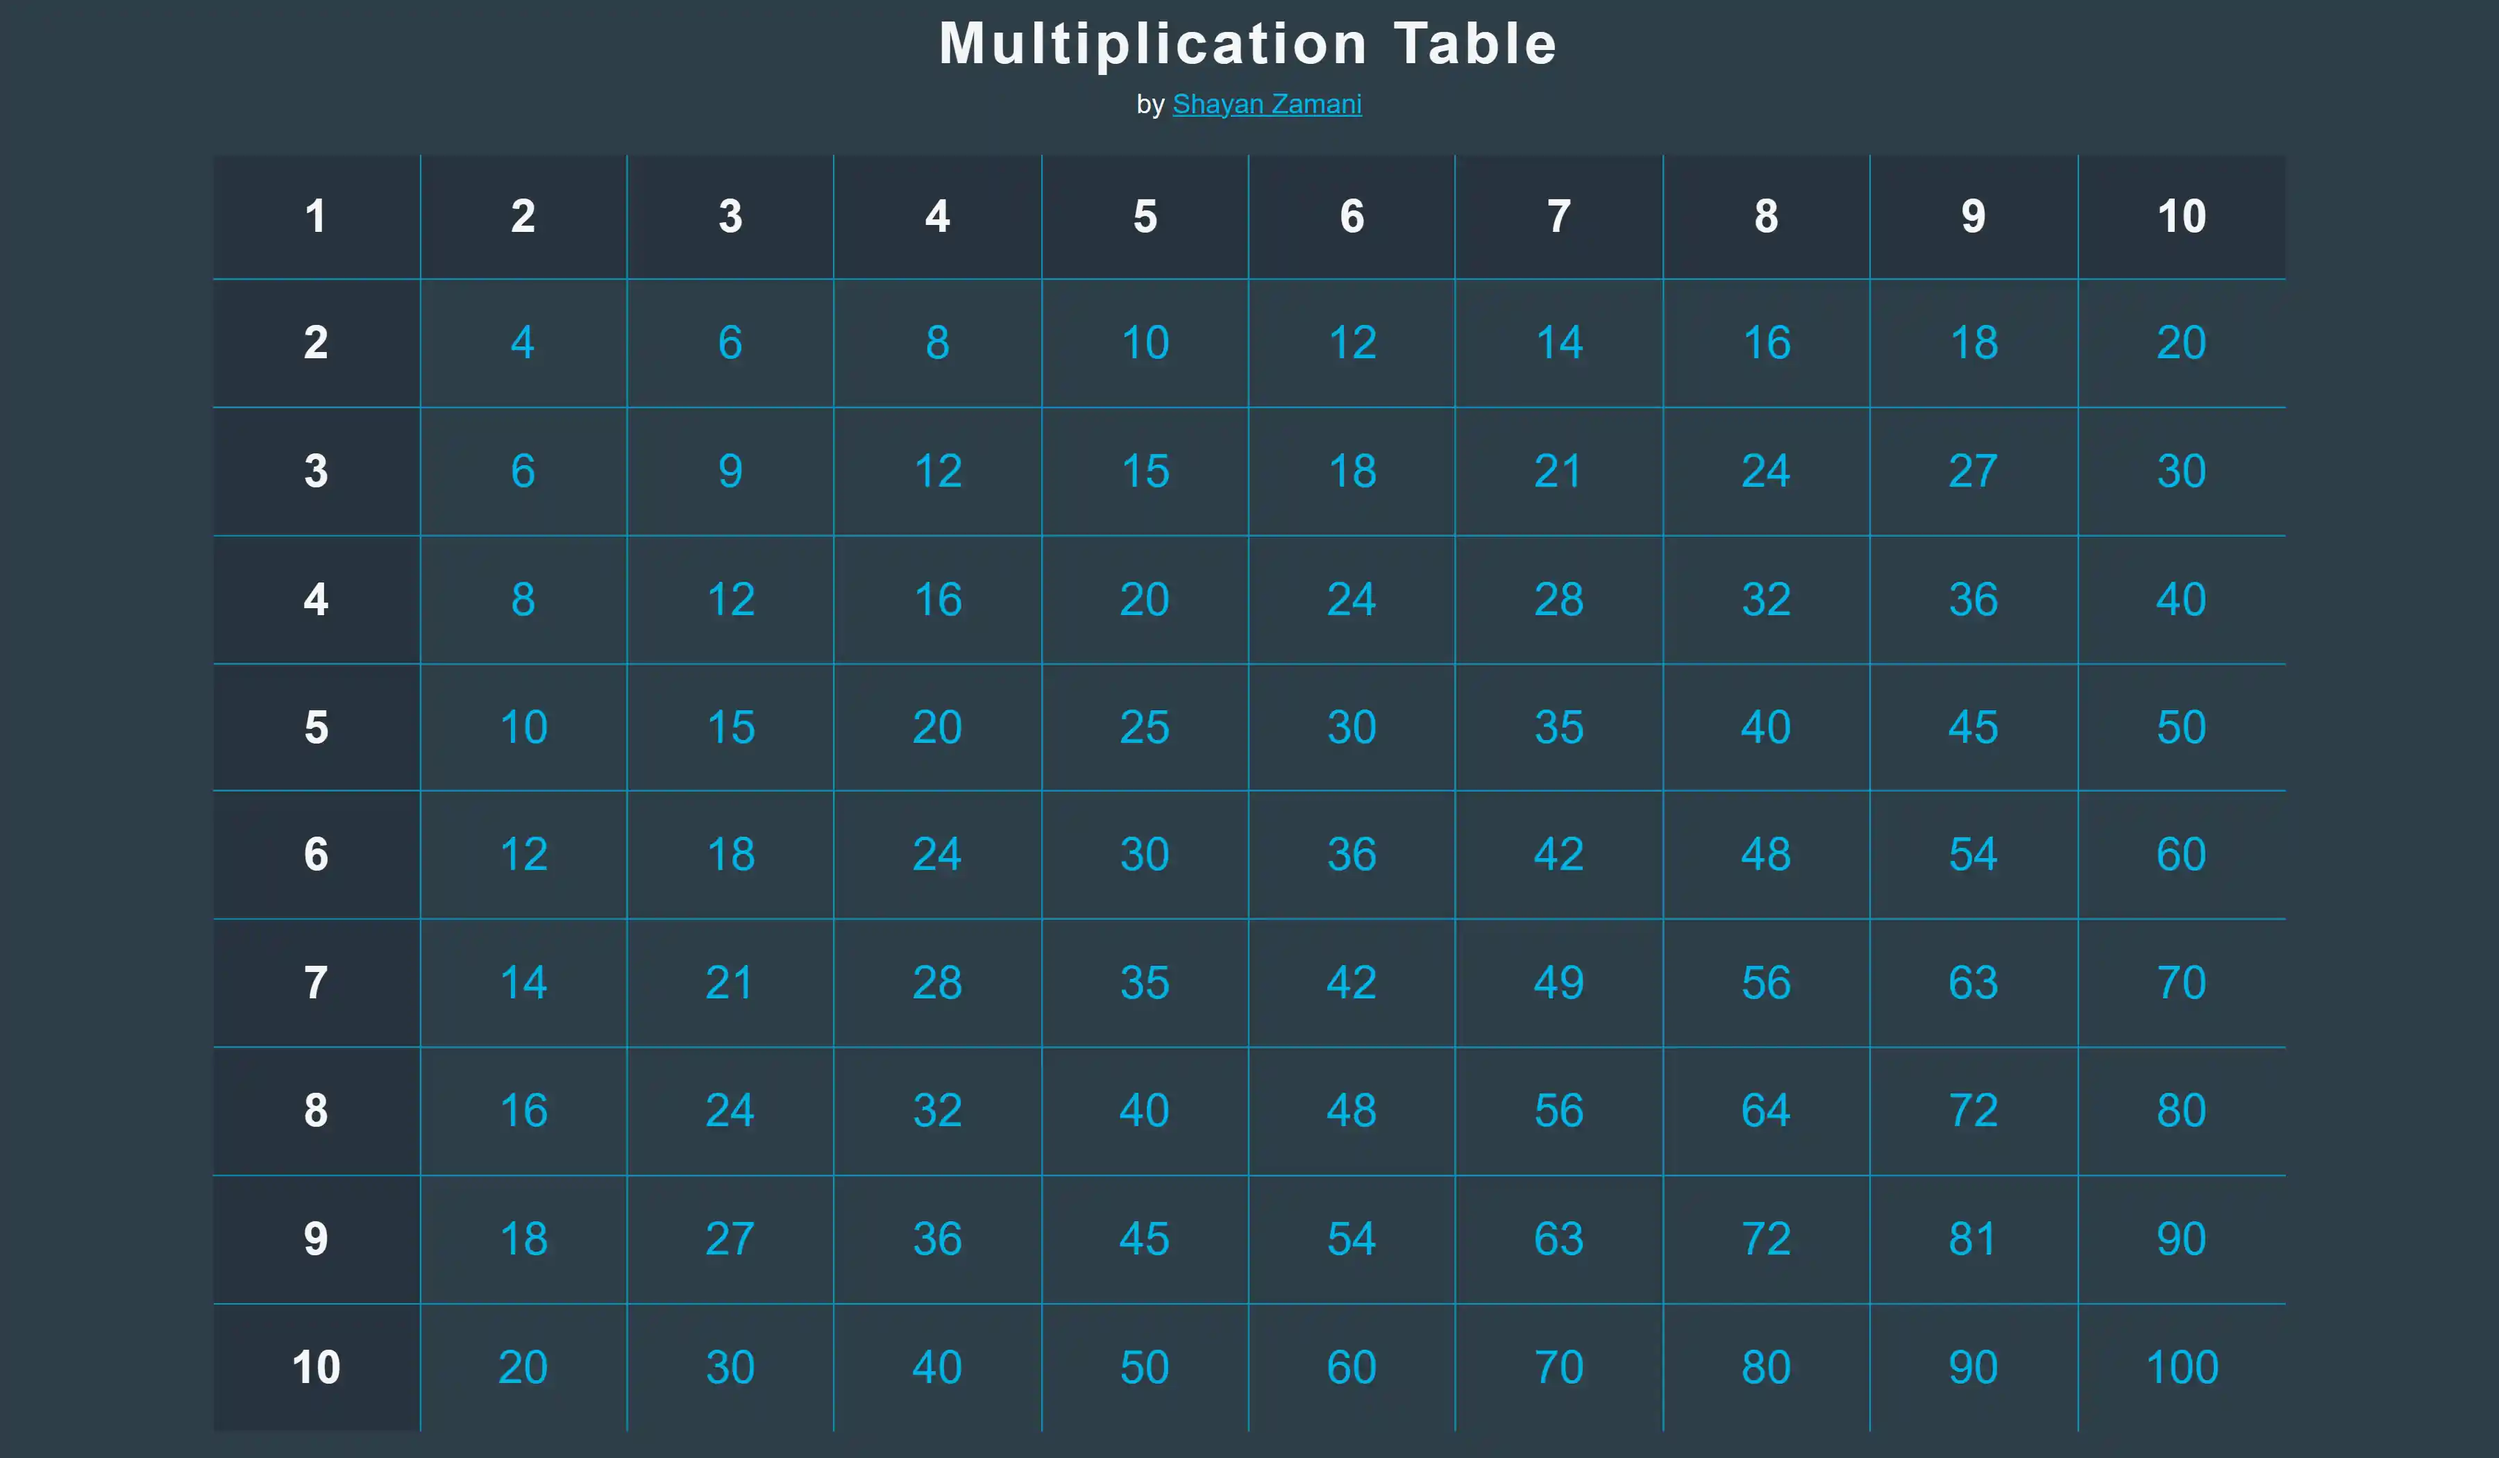
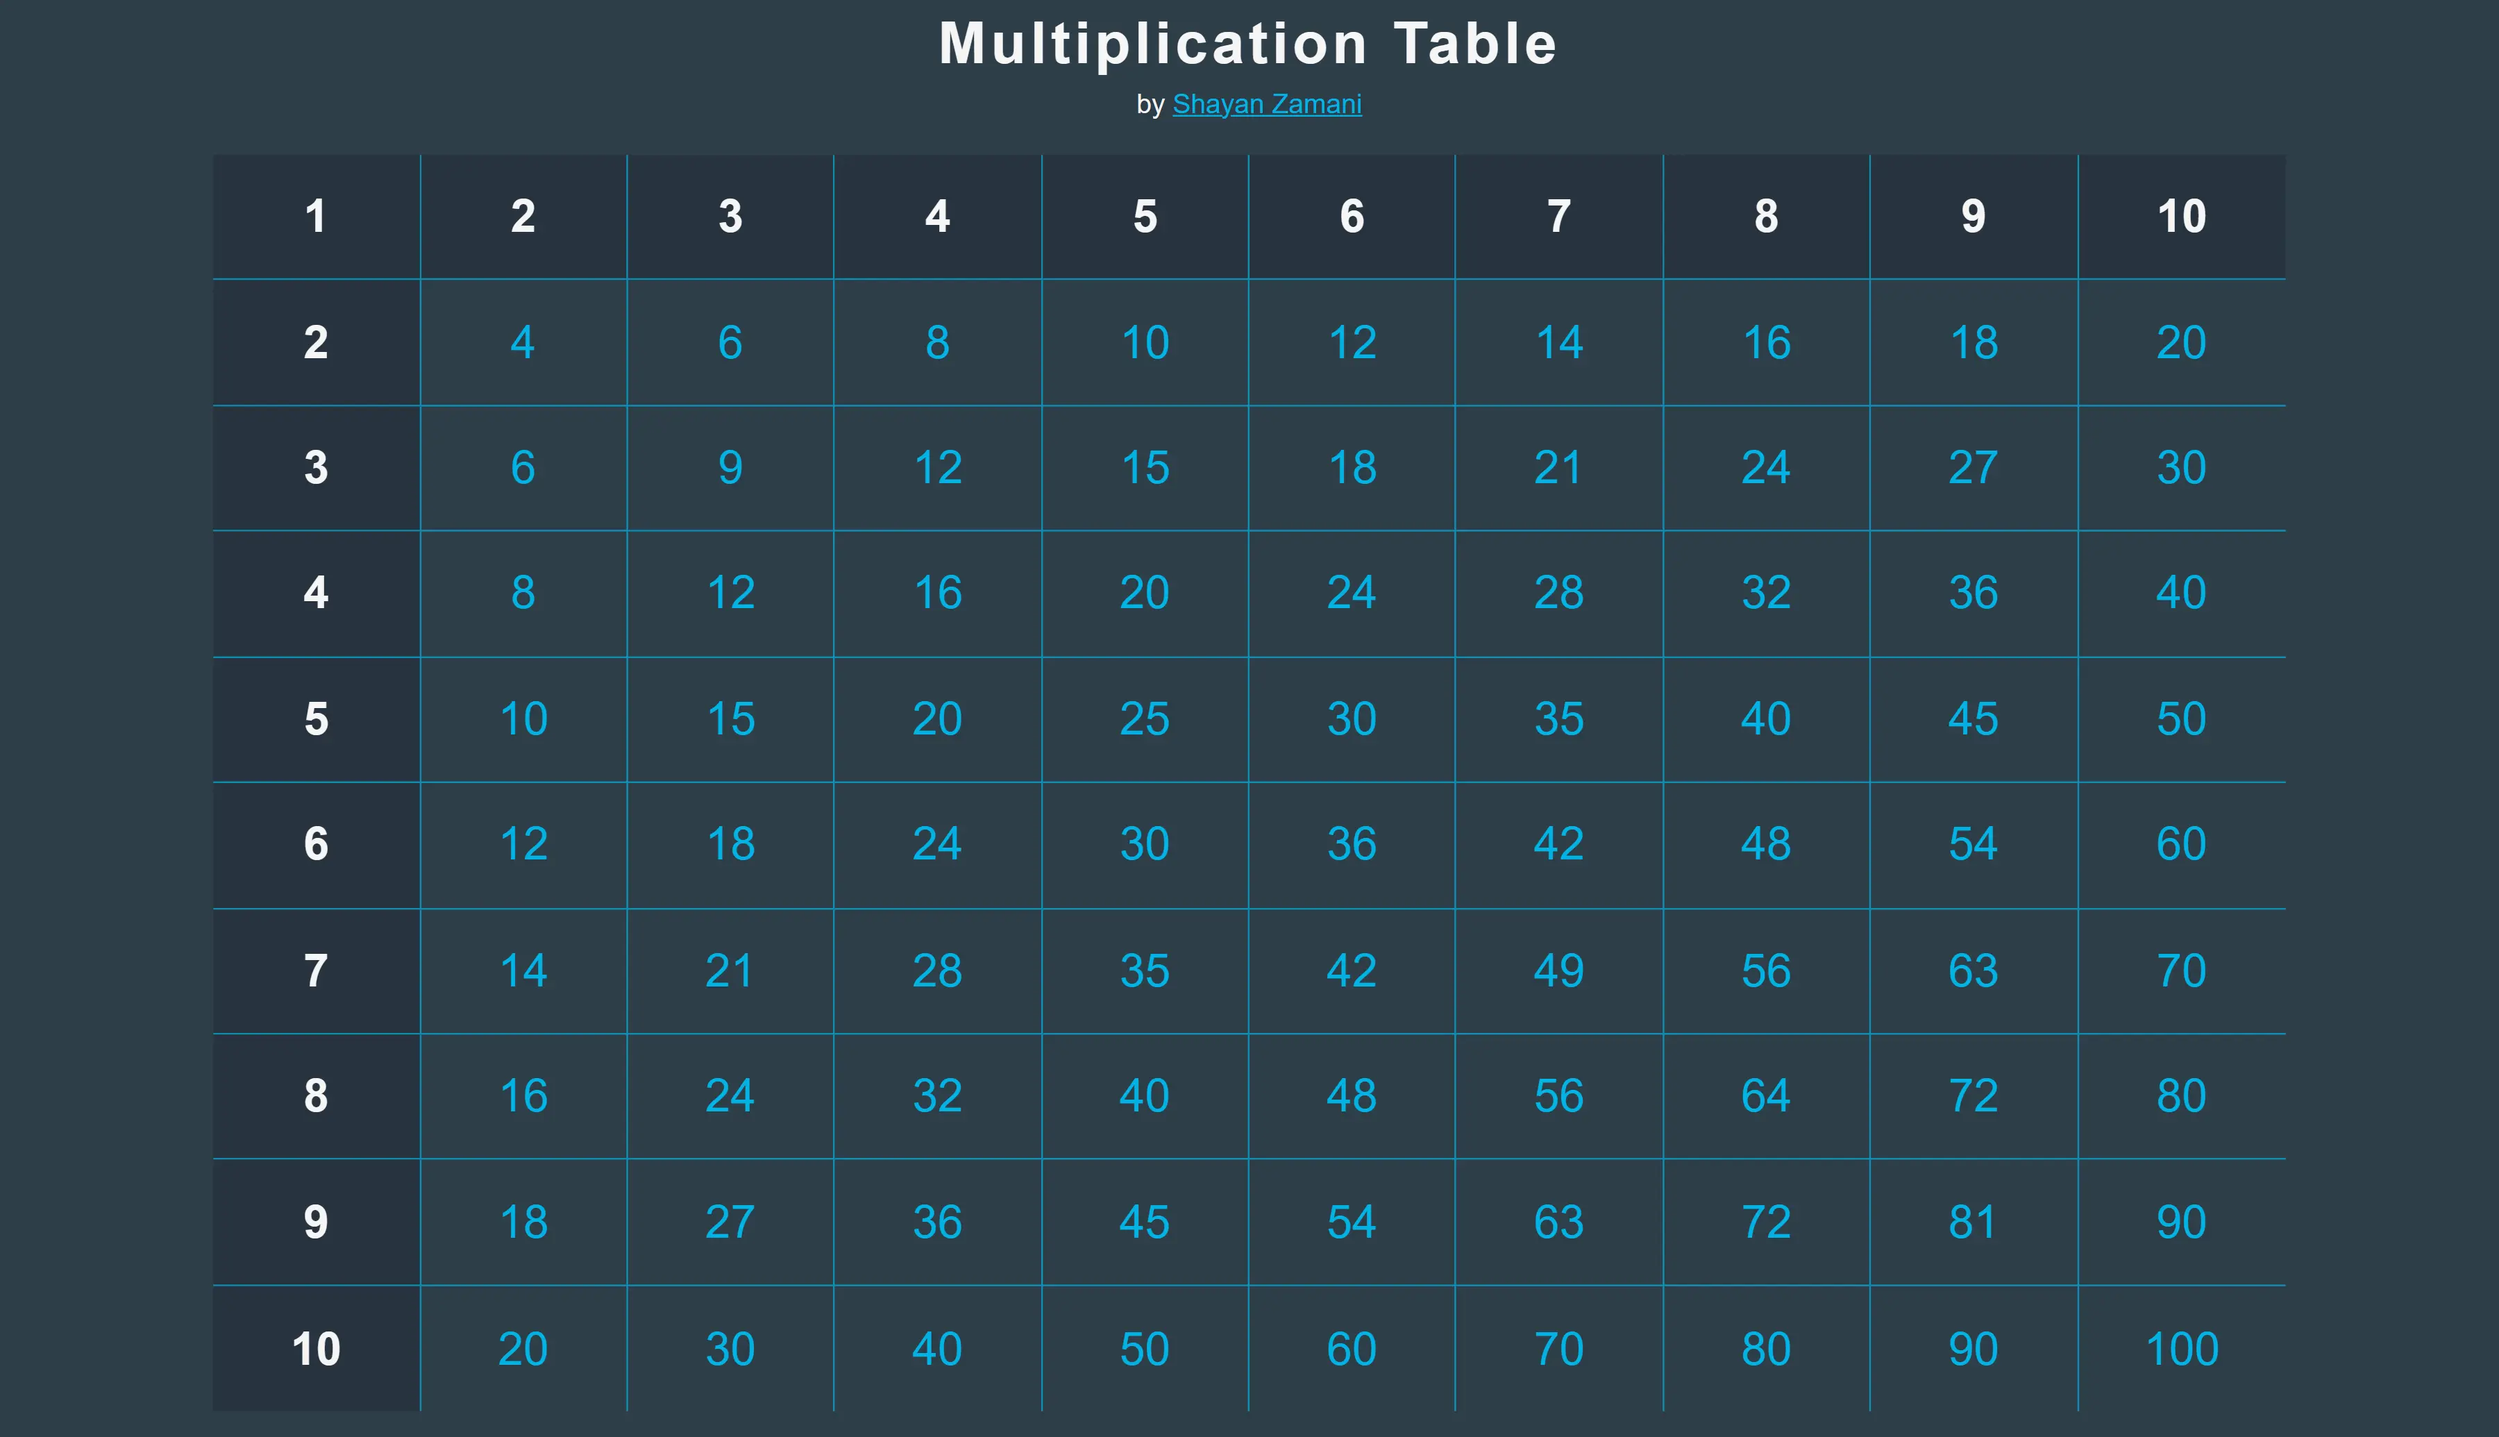
Updated Open Graph image

diff --git a/index.html b/index.html
@@ -15,7 +15,7 @@
       <meta property="og:site_name" content="shayan-zamani.me" />
       <meta property="og:title" name="title" content="Multiplication Table" />
       <meta property="og:url" content="https://shayanthenerd.github.io/multiplication-table/" />
-      <meta property="og:image" content="https://shayanthenerd.github.io/multiplication-table/og-img.png" />
+      <meta property="og:image" content="https://shayanthenerd.github.io/multiplication-table/og-img.webp" />
       <meta property="og:image:alt" content="multiplication table" />
       <meta property="og:image:width" content="1200">
       <meta property="og:image:height" content="630">
@@ -24,7 +24,7 @@
       <meta name="twitter:site" content="@shayan-zamani.me">
       <meta name="twitter:title" content="Multiplication Table">
       <meta name="twitter:card" content="summary_large_image">
-      <meta name="twitter:image" content="https://shayanthenerd.github.io/multiplication-table/og-img.png" />
+      <meta name="twitter:image" content="https://shayanthenerd.github.io/multiplication-table/og-img.webp" />
       <meta property="twitter:image:alt" content="multiplication table" />
       <meta name="twitter:description" content="An elegant multiplication table with hover effect. Move the cursor on table cells to highlight current rows and columns.">
 
